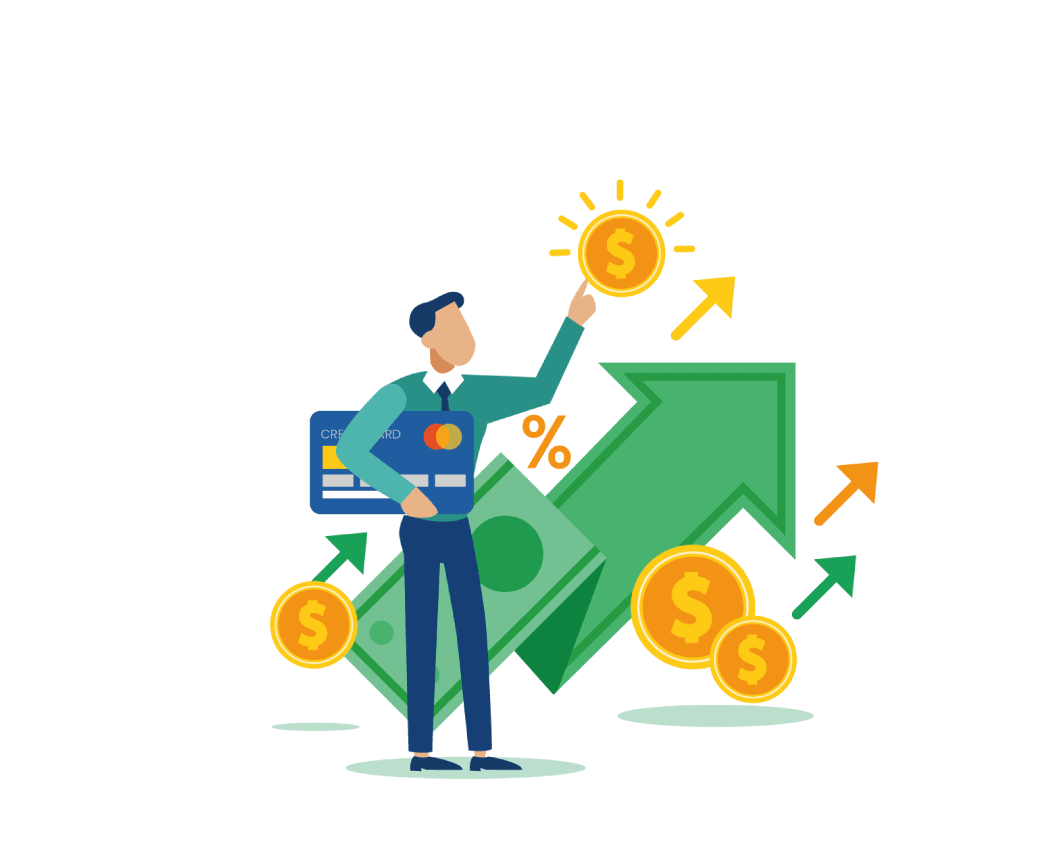
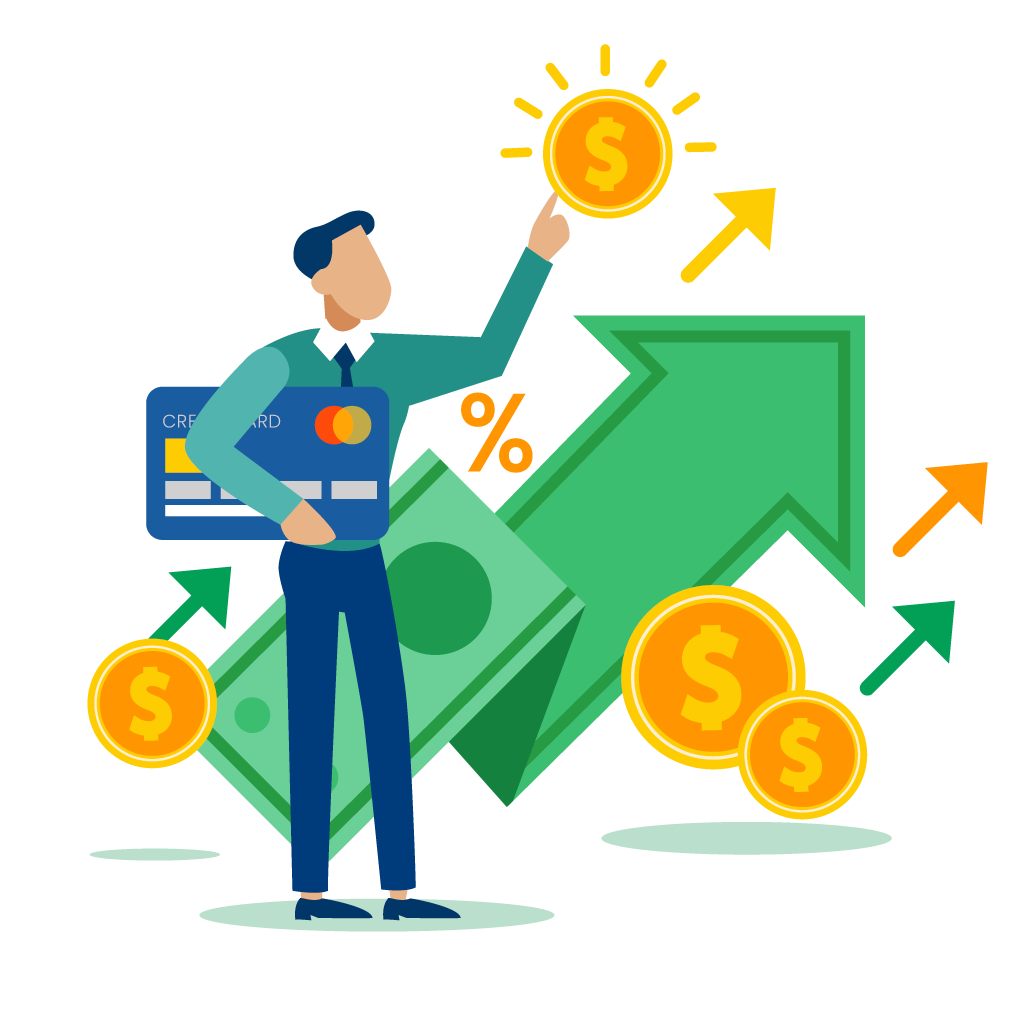
Correcciones carousel

diff --git a/assets/css/style.css b/assets/css/style.css
@@ -8790,6 +8790,9 @@ img.icon-balance {
 	}
 }
 @media (max-width: 767px) {
+	.banner-content-area-img {
+		padding-top: 50px !important;
+	}
 	.block-content-col {
 		display: block;
 	}

diff --git a/index.php b/index.php
@@ -23,11 +23,11 @@
   <!-- banner-section start -->
   <div class="swiper-cover">
     <div class="swiper-wrapper">
-      <div class="swiper-slide banner-section pb-150">
-        <div class="banner-elements-image anim-bounce"><img src="./assets/img/banner.png" alt="Banner"></div>
+      <div class="swiper-slide banner-section">
+        <!-- <div class="banner-elements-image anim-bounce"><img src="./assets/img/banner.png" alt="Banner"></div> -->
         <div class="container">
           <div class="row">
-            <div class="col-xl-8">
+            <div class="col-md-7">
               <div class="banner-content-area">
                 <div class="banner-content">
                   <span class="banner-sub-title">Empieza a construir tu futuro ahora</span>
@@ -39,10 +39,15 @@
                 </div>
               </div>
             </div>
+            <div class="col-md-5 d-flex justify-content-center align-content-center">
+              <div class="banner-content-area banner-content-area-img anim-bounce">
+                <img src="./assets/img/banner2.png" alt="Banner">
+              </div>
+            </div>
           </div>
         </div>
       </div>
-      <div class="swiper-slide banner-section pb-150">
+      <div class="swiper-slide banner-section">
         <div class="container">
           <div class="row">
             <div class="col-xl-8">
@@ -57,15 +62,15 @@
                 </div>
               </div>
             </div>
-            <div class="col-xl-4">
-              <div class="banner-content-area">
+            <div class="col-xl-4 d-flex justify-content-center align-content-center">
+              <div class="banner-content-area banner-content-area-img">
                 <img src="./assets/img/logo-royallion.png" alt="Royal Lion">
               </div>
             </div>
           </div>
         </div>
       </div>
-      <div class="swiper-slide banner-section pb-150">
+      <div class="swiper-slide banner-section">
         <div class="container">
           <div class="row">
             <div class="col-xl-8">
@@ -81,14 +86,14 @@
               </div>
             </div>
             <div class="col-xl-4 d-flex justify-content-center align-content-center">
-              <div class="banner-content-area">
+              <div class="banner-content-area banner-content-area-img">
                 <img src="./assets/img/micom.png" alt="Micom Commodities">
               </div>
             </div>
           </div>
         </div>
       </div>
-      <div class="swiper-slide banner-section pb-150">
+      <div class="swiper-slide banner-section">
         <div class="container">
           <div class="row">
             <div class="col-xl-6">
@@ -104,7 +109,7 @@
               </div>
             </div>
             <div class="col-xl-6 d-flex justify-content-center align-content-center">
-              <div class="banner-content-area">
+              <div class="banner-content-area banner-content-area-img">
                 <img src="./assets/img/ccct.jpg" alt="CCCT Royal Lion">
               </div>
             </div>

diff --git a/pages/headband.php b/pages/headband.php
@@ -63,6 +63,8 @@
 
                             if (preg_match('|<span class="text-2xl" data-test="instrument-price-last">(.*?)</span>|is', $data, $cap)) {
                                 print($cap[1]);
+                            } else {
+                                echo 1000;
                             }
                             ?>
                         </span> USD/1oz
